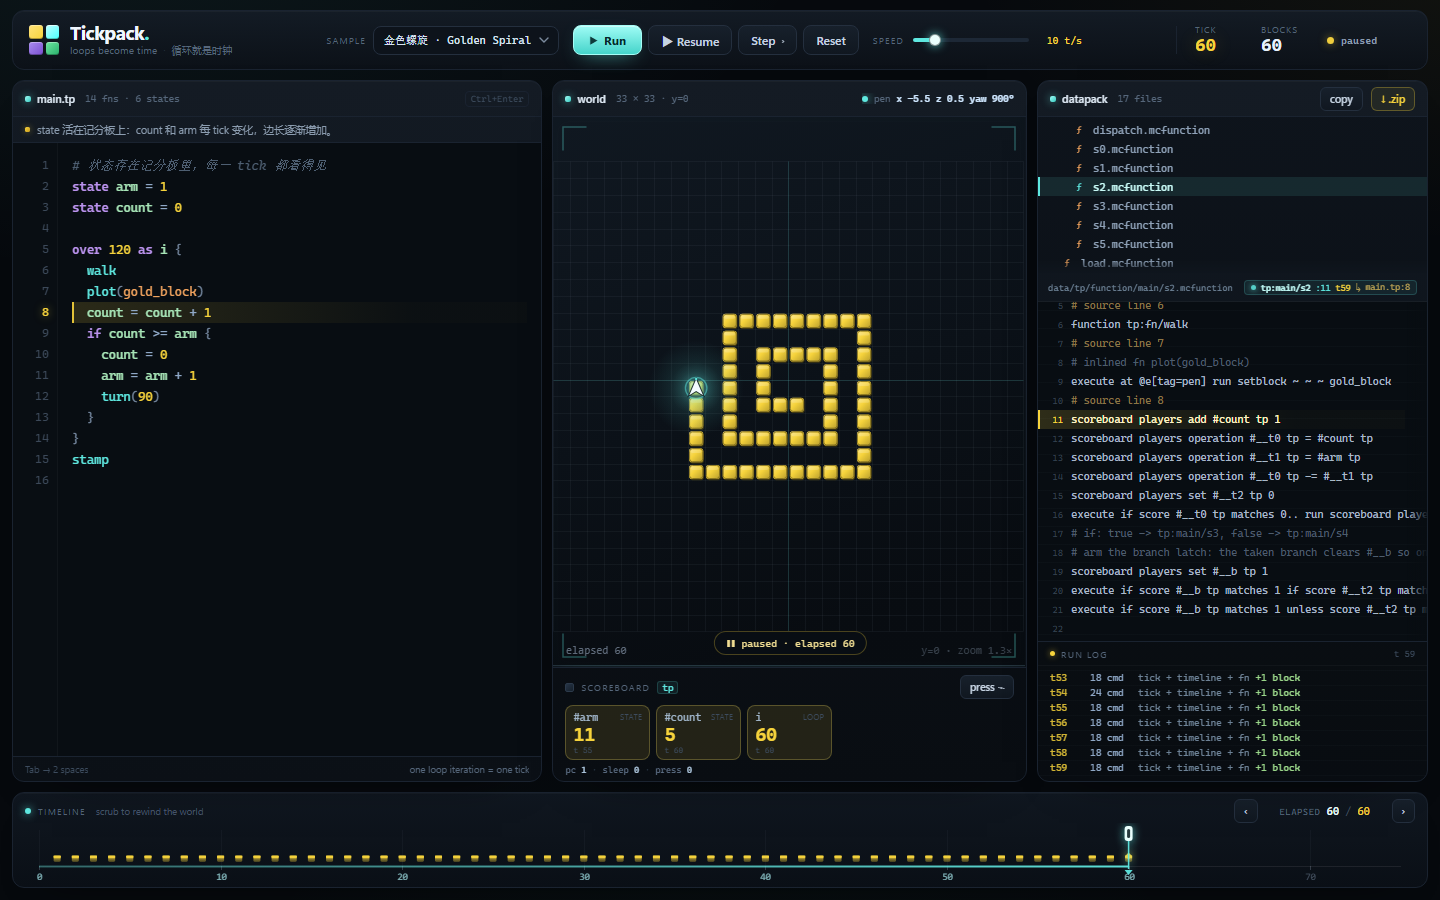
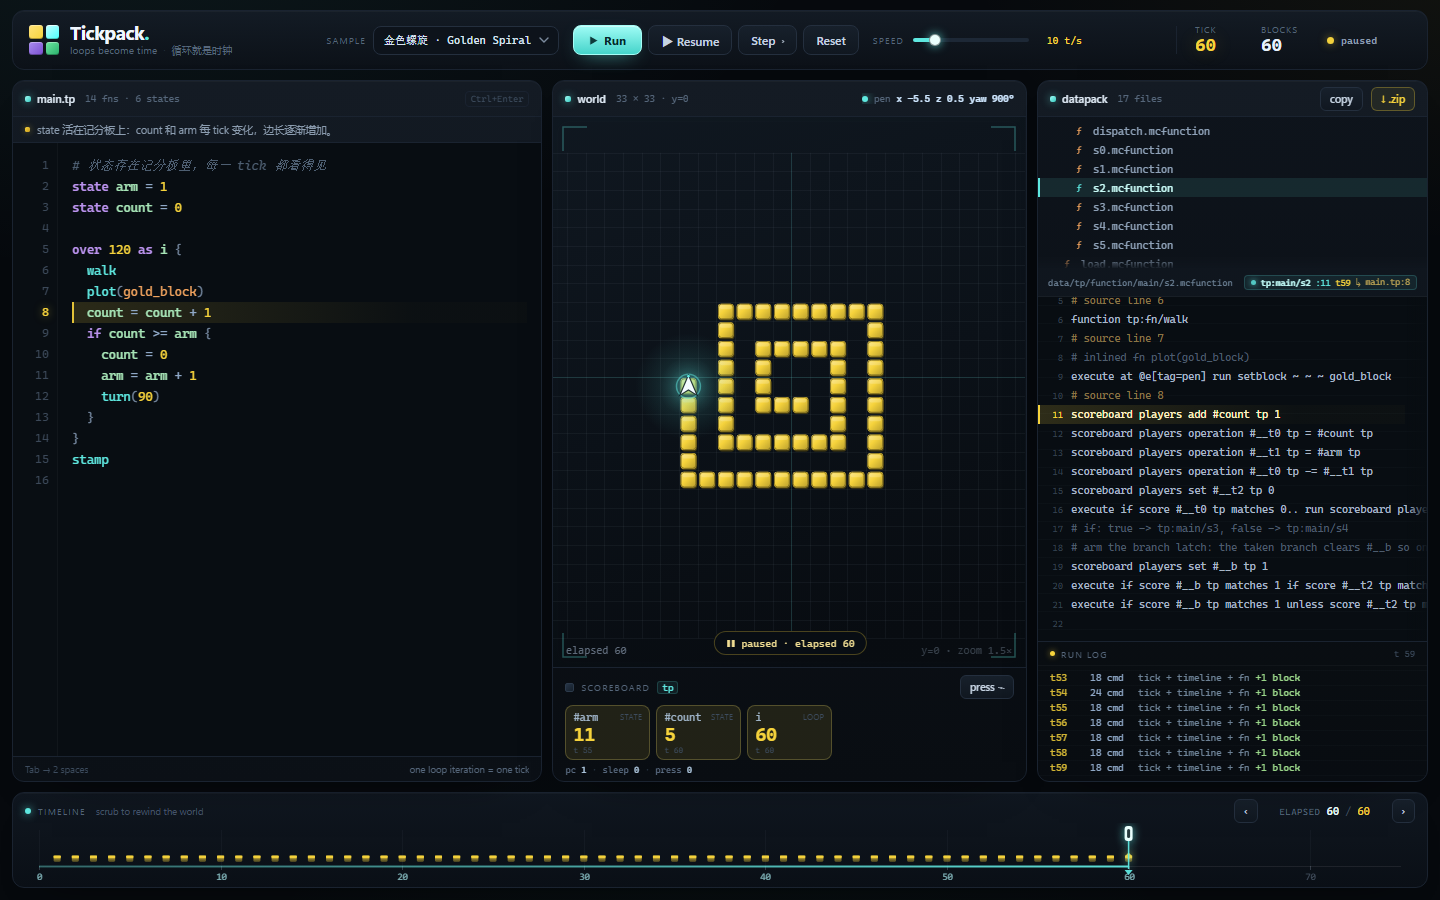
final polish: row-aligned datapack tree, tick numbering, README screenshots + installable datapack zips

Changed region(s): [[0.7188, 0.1244, 1.0, 0.6844], [0.4688, 0.3111, 0.625, 0.56]]

diff --git a/web/style.css b/web/style.css
@@ -24,6 +24,7 @@
   --sans: "Segoe UI Variable Text", "Segoe UI", system-ui, -apple-system, "Helvetica Neue", sans-serif;
   --radius: 12px;
   --code-line-h: 21px;
+  --tree-row-h: 19px;
 }
 
 * { box-sizing: border-box; }
@@ -825,15 +826,17 @@ select#sample-select:focus-visible { border-color: var(--cyan); }
 .pack-body { flex: 1 1 auto; min-height: 0; display: flex; flex-direction: column; }
 
 .file-tree {
-  flex: 0 0 30%;
-  min-height: 96px;
+  /* exactly 8 rows tall (28.8% of the packed-body at 900px) — row-snapped, so a
+     row is never cut in half at the bottom edge. */
+  flex: 0 0 calc(var(--tree-row-h) * 8);
+  min-height: 0;
   min-width: 0;
   overflow: auto;
-  padding: 4px 0 10px;
+  padding: 0;
   background: rgba(0, 0, 0, 0.14);
   border-bottom: 1px solid var(--line);
-  -webkit-mask-image: linear-gradient(to bottom, #000 calc(100% - 14px), transparent 100%);
-  mask-image: linear-gradient(to bottom, #000 calc(100% - 14px), transparent 100%);
+  -webkit-mask-image: linear-gradient(to bottom, #000 calc(100% - 13px), transparent 100%);
+  mask-image: linear-gradient(to bottom, #000 calc(100% - 13px), transparent 100%);
 }
 
 .tree-row {
@@ -841,7 +844,7 @@ select#sample-select:focus-visible { border-color: var(--cyan); }
   align-items: center;
   gap: 5px;
   width: 100%;
-  height: 19px;
+  height: var(--tree-row-h);
   padding: 0 8px 0 calc(8px + var(--depth, 0) * 12px);
   border: 0;
   background: none;
@@ -1205,8 +1208,7 @@ select#sample-select:focus-visible { border-color: var(--cyan); }
 @media (max-height: 820px) {
   .app { grid-template-rows: 56px minmax(0, 1fr) 92px; gap: 8px; padding: 8px 10px 10px; }
   .scores-grid { max-height: 82px; }
-  .file-tree { flex: 0 0 126px; max-height: none; }
-  .tree-row { height: 18px; }
+  .file-tree { --tree-row-h: 18px; flex: 0 0 calc(var(--tree-row-h) * 7); }
   .console { flex-basis: 140px; }
   .file-view { min-height: 160px; }
   .sample-desc { flex-basis: 24px; }

diff --git a/web/datapack.js b/web/datapack.js
@@ -160,7 +160,11 @@ export function createDatapack({ treeEl, pathEl, codeEl, execEl, packMetaEl, cop
 
   function scrollTreeToActive() {
     const active = treeRows.find((r) => r.classList.contains('active'));
-    if (active && active.scrollIntoView) active.scrollIntoView({ block: 'center' });
+    if (!active || !active.scrollIntoView) return;
+    active.scrollIntoView({ block: 'center' });
+    // snap the scroll offset to whole rows so nothing is cut in half at an edge
+    const rowH = active.offsetHeight || 19;
+    treeEl.scrollTop = Math.max(0, Math.round(treeEl.scrollTop / rowH) * rowH);
   }
 
   function renderCode() {
